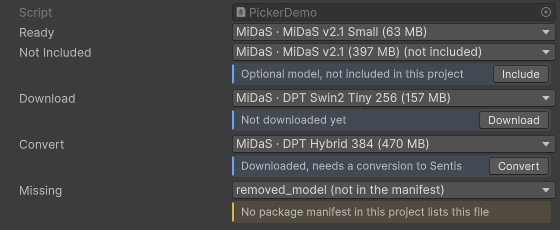
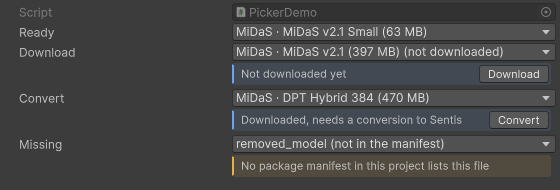
feat(ui): show optional models as not downloaded in the model picker
Users see a model they can use that is not downloaded yet; whether the
manifest marks it optional is an AI Model Hub detail. Optional files that
the project did not turn on now read "Not downloaded yet" with a Download
button, like other files missing from the cache. Download turns the file
on first. The dropdown marks both "(not downloaded)".

diff --git a/tools.doji.model-hub/Editor/UI/HubModelReferenceDrawer.cs b/tools.doji.model-hub/Editor/UI/HubModelReferenceDrawer.cs
@@ -172,6 +172,9 @@ namespace Doji.AI.ModelHub.Editor
     {
         internal const string NoneChoice = "None";
         internal const string AssetChoice = "Model asset of your own…";
+        private const string NotDownloadedText = "Not downloaded yet";
+        private const string DownloadTooltip =
+            "Download fetches the model from Hugging Face and sets it up for this project. Builds then include it.";
         private const string StyleSheetPath = UiKit.StylesFolder + "HubModelField.uss";
 
         internal enum StatusKind
@@ -404,20 +407,14 @@ namespace Doji.AI.ModelHub.Editor
             var percent = progress > 0f ? $" {Mathf.RoundToInt(Mathf.Clamp01(progress) * 100f)}%" : string.Empty;
             switch (entry.State)
             {
+                // To the user an optional file that is not turned on is a model that is not downloaded yet.
+                // Its Download button turns the file on first.
                 case HubModelPicker.FileState.NotTurnedOn:
-                    return new StatusInfo(
-                        StatusKind.NotIncluded,
-                        "Optional model, not included in this project",
-                        "Include adds the model to this project and downloads it. It then loads here and ships with builds.",
-                        "Include");
+                    return new StatusInfo(StatusKind.NotIncluded, NotDownloadedText, DownloadTooltip, "Download");
                 case HubModelPicker.FileState.NeedsDownload when syncing:
                     return Working($"Downloading…{percent}");
                 case HubModelPicker.FileState.NeedsDownload:
-                    return new StatusInfo(
-                        StatusKind.NeedsDownload,
-                        "Not downloaded yet",
-                        "Download fetches the model from Hugging Face and sets it up for this project.",
-                        "Download");
+                    return new StatusInfo(StatusKind.NeedsDownload, NotDownloadedText, DownloadTooltip, "Download");
                 case HubModelPicker.FileState.NeedsConversion when syncing:
                     return Working($"Converting…{percent}");
                 case HubModelPicker.FileState.NeedsConversion:
@@ -475,9 +472,9 @@ namespace Doji.AI.ModelHub.Editor
                 parts.Add(entry.DisplayName);
                 var text = string.Join(" · ", parts);
 
-                if (entry.State == HubModelPicker.FileState.NotTurnedOn)
+                if (entry.State is HubModelPicker.FileState.NotTurnedOn or HubModelPicker.FileState.NeedsDownload)
                 {
-                    text += " (not included)";
+                    text += " (not downloaded)";
                 }
 
                 // Dropdown choices must be unique; two files with one label fall back to their paths.

diff --git a/tools.doji.model-hub/Tests/Editor/UI/HubModelPickerTests.cs b/tools.doji.model-hub/Tests/Editor/UI/HubModelPickerTests.cs
@@ -88,10 +88,11 @@ namespace Doji.AI.ModelHub.Editor.Tests
 
         /// <summary>
         /// Verifies the status line under the dropdown names the next step for each state, shows progress while AI
-        /// Model Hub works, and shows nothing for a file that loads.
+        /// Model Hub works, and shows nothing for a file that loads. An optional file that is not turned on reads as
+        /// not downloaded, like any other file that is not in the cache.
         /// </summary>
         [TestCase(HubModelPicker.FileState.Included, false, null, null)]
-        [TestCase(HubModelPicker.FileState.NotTurnedOn, false, "Optional model, not included in this project", "Include")]
+        [TestCase(HubModelPicker.FileState.NotTurnedOn, false, "Not downloaded yet", "Download")]
         [TestCase(HubModelPicker.FileState.NeedsDownload, false, "Not downloaded yet", "Download")]
         [TestCase(HubModelPicker.FileState.NeedsDownload, true, "Downloading… 42%", "Details")]
         [TestCase(HubModelPicker.FileState.NeedsConversion, false, "Downloaded, needs a conversion to Sentis", "Convert")]

diff --git a/internal-docs/runtime-loading.md b/internal-docs/runtime-loading.md
@@ -51,7 +51,7 @@ A package entry lists only its own owner's selection. The shared import may hold
 
 - `Hub.GetModelFiles(Async)(packageId)` maps the catalog's files to `HubModelFile` (`HubModelFile.FromRegistry`). It lists only what the catalog has: included and set-up files.
 - `HubModelReference` serializes `_packageId`, `_repoId`, `_repoPath`, and `_modelAsset`. A model asset wins over the file fields.
-- The Inspector drawer ([HubModelReferenceDrawer.cs](../tools.doji.model-hub/Editor/UI/HubModelReferenceDrawer.cs)) lists more than the catalog: `HubModelPicker.Build` takes every declared model file from the status report and marks it `Included` (in the catalog), `NotTurnedOn` (optional, not enabled), `NeedsDownload`, `NeedsConversion` (the dependency's `PendingConversions` lists the file; the entry keeps `ConversionCause`), or `NeedsSetup` (import pending without a conversion). Whole-repository dependencies list their imported runtime files. `HubModelReferenceDrawer.GetStatus` maps the state to the status line's text and button. **Include** writes the optional-file selection; it and **Download**, **Convert**, and **Set up** start `BackgroundSyncManager.StartForRepository`. While a sync runs, the drawer polls its progress every 250 ms and rebuilds when it ends.
+- The Inspector drawer ([HubModelReferenceDrawer.cs](../tools.doji.model-hub/Editor/UI/HubModelReferenceDrawer.cs)) lists more than the catalog: `HubModelPicker.Build` takes every declared model file from the status report and marks it `Included` (in the catalog), `NotTurnedOn` (optional, not enabled), `NeedsDownload`, `NeedsConversion` (the dependency's `PendingConversions` lists the file; the entry keeps `ConversionCause`), or `NeedsSetup` (import pending without a conversion). Whole-repository dependencies list their imported runtime files. `HubModelReferenceDrawer.GetStatus` maps the state to the status line's text and button. `NotTurnedOn` and `NeedsDownload` look the same to users ("Not downloaded yet", **Download**); for `NotTurnedOn`, **Download** first writes the optional-file selection. **Download**, **Convert**, and **Set up** start `BackgroundSyncManager.StartForRepository`. While a sync runs, the drawer polls its progress every 250 ms and rebuilds when it ends.
 - `HubModelLoader` (one per package) maps strings to a model: empty for the default, `IsFilePath` (exists or rooted) for `Hub.LoadModelFromFile`, `owner/name:path` for another repository, else a path in the default repository. It wraps failures of package files in an `InvalidOperationException` that names the package and `Window > AI Model Hub`; cancellation and failures of the user's own files and assets pass through.
 - `PretrainedModel<T>` reads `[PretrainedModel]` from `T` once into a static `HubModelLoader`, creates instances through the private parameterless constructor (`Activator.CreateInstance(nonPublic: true)`), and calls `Initialize`. The `Backend` setter calls `Release` then `Initialize`. `[HubModel(typeof(T))]` reads the package id from the same attribute.
 - `Hub.LoadModelFromFile` bypasses the registry. ONNX files use `RuntimeModels.OnnxConverter`, else in the Editor `EditorOnnxConverter` (set by `EditorRuntimeCatalog`), and are not cached.

diff --git a/tools.doji.model-hub/CHANGELOG.md b/tools.doji.model-hub/CHANGELOG.md
@@ -24,7 +24,7 @@ and this project adheres to [Semantic Versioning](http://semver.org/spec/v2.0.0.
 - Model Hub and Add Model show the model format.
 - Converted models are reused across Inference Engine updates of the same format generation (`SentisCompatibility`).
 - Manifest files can set a `label`, the name model pickers show. The file picker in the manifest Inspector edits it.
-- `HubModelReference` and `[HubModel("package.id")]`: an Inspector dropdown of a package's model files, or a model asset of your own. A status line under it offers **Include**, **Download**, **Convert**, or **Set up** when the chosen file does not load yet, and shows progress while AI Model Hub works. `Hub.GetModelFiles(Async)` lists a package's model files at runtime, and `Hub.LoadModelFromFile` loads a `.sentis` or `.onnx` file of your own.
+- `HubModelReference` and `[HubModel("package.id")]`: an Inspector dropdown of a package's model files, or a model asset of your own. A status line under it offers **Download**, **Convert**, or **Set up** when the chosen file does not load yet; downloading an optional file turns it on for the project, and shows progress while AI Model Hub works. `Hub.GetModelFiles(Async)` lists a package's model files at runtime, and `Hub.LoadModelFromFile` loads a `.sentis` or `.onnx` file of your own.
 - `PretrainedModel<T>` and `[PretrainedModel(packageId, repoId, defaultRepoPath)]`: a base class that gives a package's model class `FromPretrained(Async)` for the default model, a manifest file, a file path, or a `HubModelReference`, plus `DefaultModel` and `Backend`. `HubModelLoader` does the same loading for classes that run several models. `[HubModel(typeof(T))]` takes the package id from the attribute.
 - `HubStorage` lists and deletes converted models and old Android copies of bundled models. AI Model Hub never deletes them on its own.
 

diff --git a/docs/manual/package-model-api.md b/docs/manual/package-model-api.md
@@ -123,12 +123,11 @@ public class DepthEstimation : MonoBehaviour
 
 When the chosen file does not load yet, a status line under the dropdown names the next step:
 
-![Status lines under the dropdown for a file that is not included, not downloaded, needs a conversion, or is not in a manifest](../images/manual/model-hub-model-picker-status.png)
+![Status lines under the dropdown for a file that is not downloaded, needs a conversion, or is not in a manifest](../images/manual/model-hub-model-picker-status.png)
 
 | Status | Button | Does |
 | --- | --- | --- |
-| Optional model, not included in this project | **Include** | Turns the optional file on for the project and starts the download. The dropdown marks these files **(not included)**. |
-| Not downloaded yet | **Download** | Downloads and sets up the model's repository. |
+| Not downloaded yet | **Download** | Downloads and sets up the model. For an optional file, it also turns the file on for the project, so builds include it. The dropdown marks these files **(not downloaded)**. |
 | Downloaded, needs a conversion to Sentis | **Convert** | Converts the ONNX file. When import settings or the Sentis model format changed, the line says so. |
 | Downloaded, not set up for this project yet | **Set up** | Finishes the quick import step. |
 | Downloading…, Converting…, Setting up… | **Details** | Shows progress while AI Model Hub works; **Details** opens the model in AI Model Hub. |
